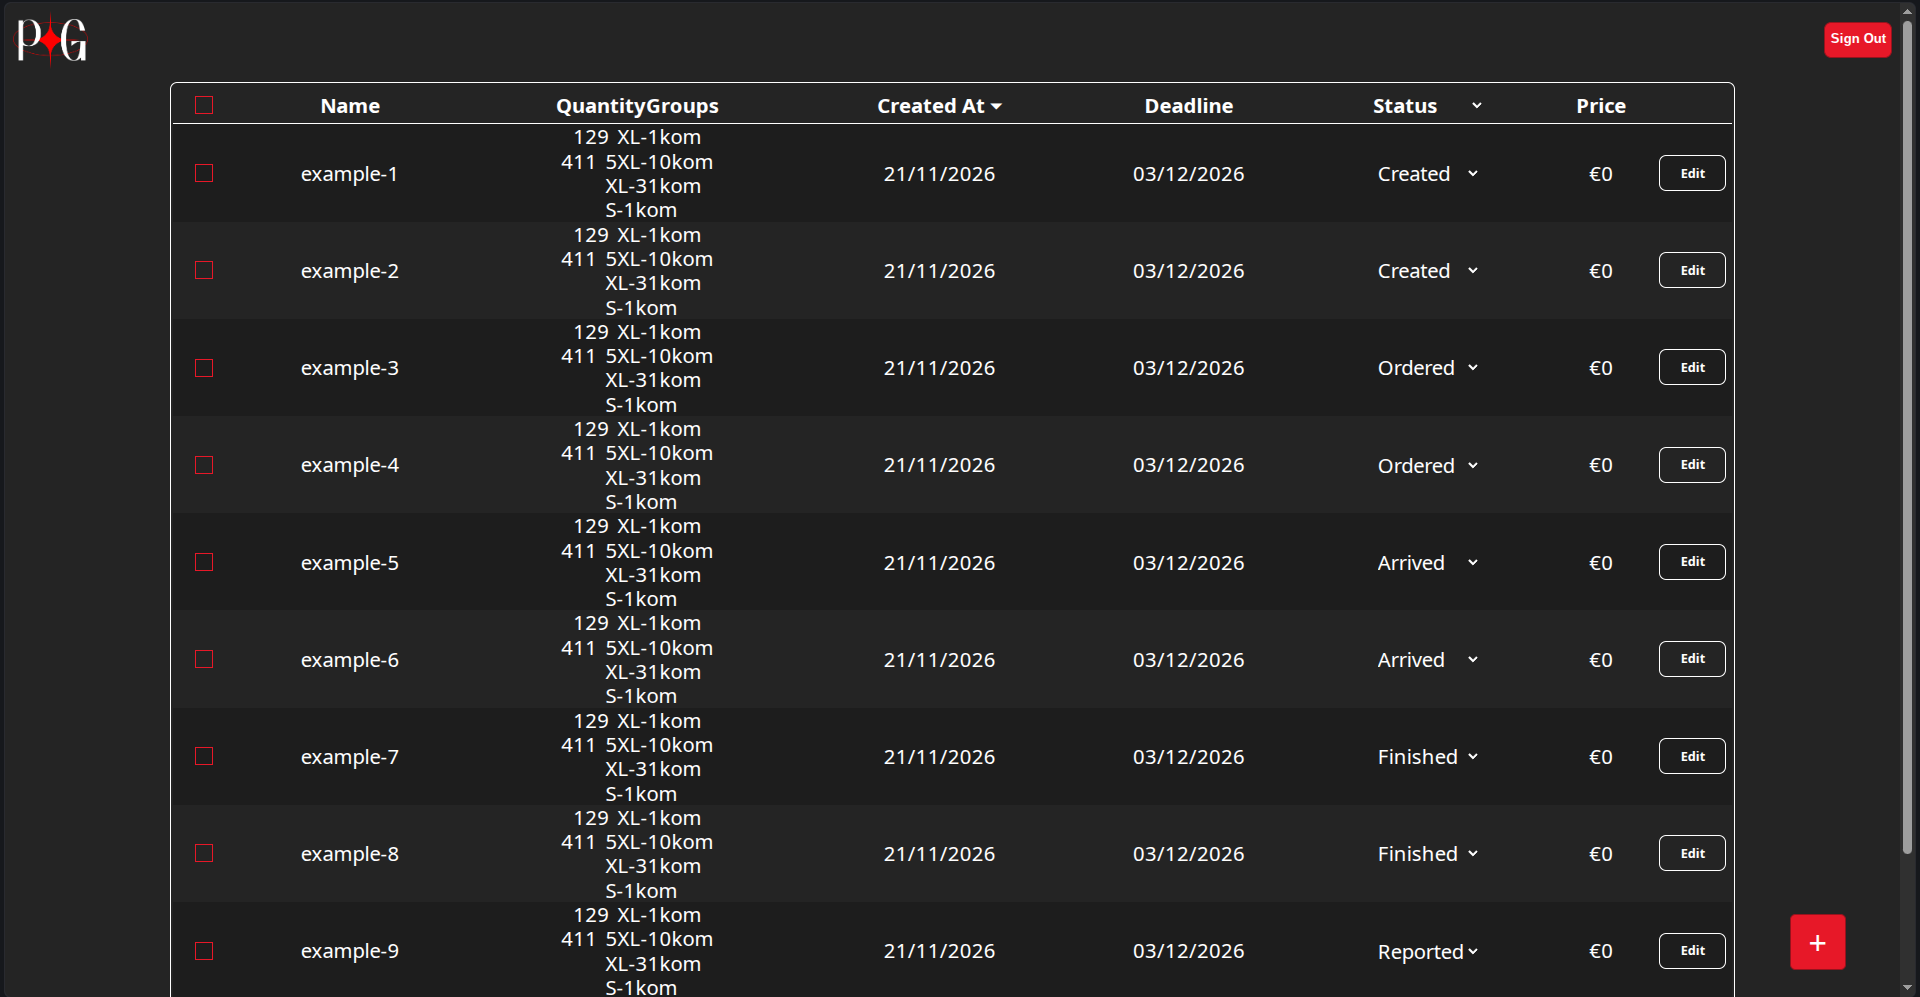
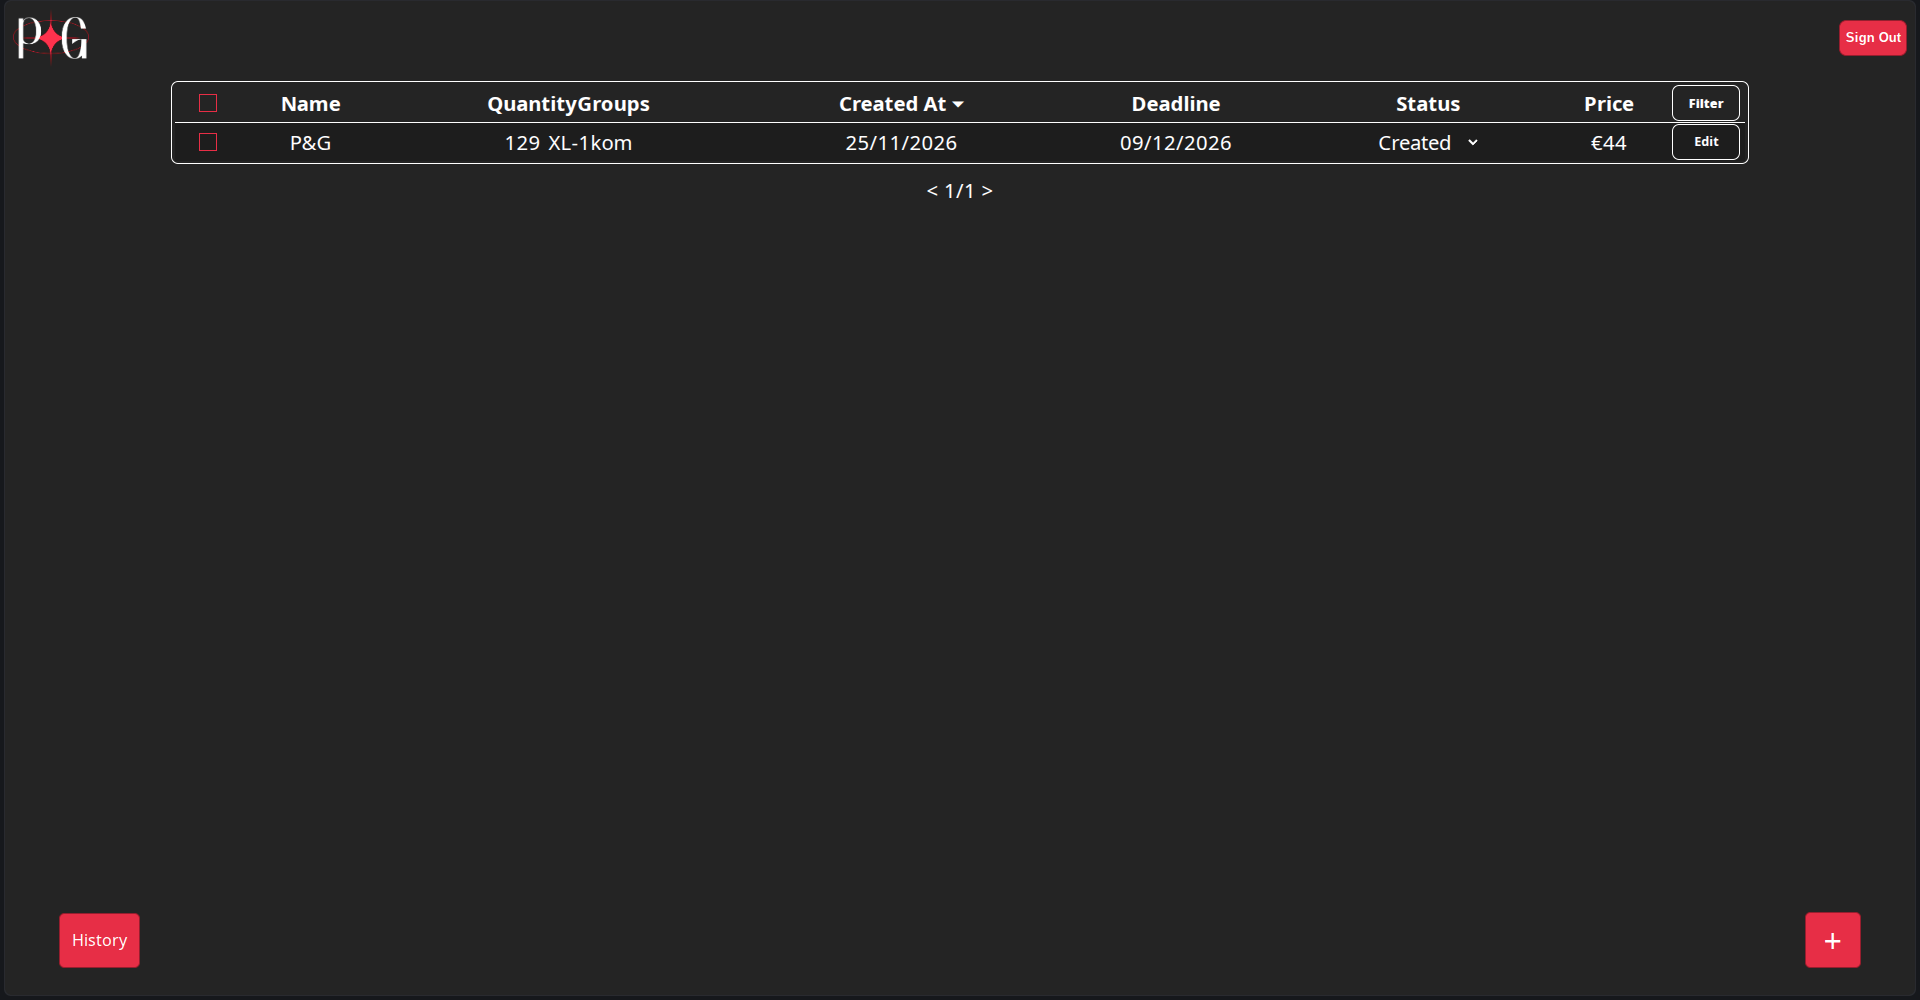
style: fixed minor styling issues

diff --git a/frontend/src/components/DataTable.tsx b/frontend/src/components/DataTable.tsx
@@ -166,14 +166,22 @@ export const DataTable = ({ onApiKeyReset }: props) => {
     setSelectedPage(1);
   }, [descending, sortBy, statusFilter]);
 
+  
   function useBreakpoint() {
     const isMobile = useMediaQuery({ query: '(max-width: 640px)' });
     const isTablet = useMediaQuery({ query: '(max-width: 1024px)' });
-
+    
     return { isMobile, isTablet };
   }
-
+  
   const { isMobile, isTablet } = useBreakpoint();
+  
+  useEffect(() => {
+    if(dataTableHidden && !isMobile && selectedOrder.id !== ''){
+      setSelectedOrder(emptyOrder);
+      setDataTableHidden(false);
+    }
+  }, [isMobile])
 
   const handleSortChange = (newlySelected: "createdAt" | "deadline") => {
     if (sortBy === newlySelected) {
@@ -190,6 +198,10 @@ export const DataTable = ({ onApiKeyReset }: props) => {
       setSelectedOrder(orderData[index]);
     }
   }
+
+  useEffect(() => {
+    console.log(isMobile, viewHistory)
+  }, [isMobile, viewHistory])
 
   const statusSelect = (index: number, order: Order) => {
     return <select className='white' name="statusSelect" id={`statusSelect-${index}`} value={order.status} onChange={
@@ -302,16 +314,20 @@ export const DataTable = ({ onApiKeyReset }: props) => {
                   </th>
                   : null
               }
-              <th>
-                <div className='flex justify-center gap-2'>
-                  <button onClick={() => { handleSortChange("deadline") }}>
-                    Deadline
-                  </button>
-                  <p className={`${sortBy === "deadline" ? "" : "hidden"} ${descending ? "rotate-180" : ""}`}>{"⏷"}
-                  </p>
+              {
+                !isMobile ?
+                <th>
+                  <div className='flex justify-center gap-2'>
+                    <button onClick={() => { handleSortChange("deadline") }}>
+                      Deadline
+                    </button>
+                    <p className={`${sortBy === "deadline" ? "" : "hidden"} ${descending ? "rotate-180" : ""}`}>{"⏷"}
+                    </p>
 
-                </div>
-              </th>
+                  </div>
+                </th>
+                : null
+              }
               {
                 !isMobile ?
                   <th>
@@ -323,10 +339,10 @@ export const DataTable = ({ onApiKeyReset }: props) => {
               {
                 !isMobile && !isTablet ? <th>Price</th> : null
               }
-              <th className='w-10' ref={filterRef}>
+              <th className={`w-10`} ref={filterRef}>
                 <button className='button-size border-white border hover:bg-white hover:text-[#1f1f1f]' onClick={() => setFilterPopUpVisible(prev => !prev)}>Filter</button>
                 <div className={filterPopUpVisible ? "" : "hidden"}>
-                  <FunnelForFilters setStatusFilter={(status:"Created" | "Ordered" | "Arrived" | "Finished" | "ReportedAsFinished" | "Delivered" | "null") => setStatusFilter(status)} filterIsHandover={filterIsHandover} toggleFilterIsHandover={() => setFilterIsHandover(prev => !prev)} showingHistory={viewHistory}/>
+                  <FunnelForFilters setStatusFilter={(status:"Created" | "Ordered" | "Arrived" | "Finished" | "ReportedAsFinished" | "Delivered" | "null") => setStatusFilter(status)} filterIsHandover={filterIsHandover} toggleFilterIsHandover={() => setFilterIsHandover(prev => !prev)} showingHistory={viewHistory} isMobile={isMobile} isTablet={isTablet}/>
                 </div>
               </th>
             </tr>
@@ -362,7 +378,9 @@ export const DataTable = ({ onApiKeyReset }: props) => {
                   {
                     !isMobile && !isTablet ? <td>{new Date(order.createdAt).toLocaleDateString("en-GB")}</td> : null
                   }
-                  <td>{new Date(order.deadline).toLocaleDateString("en-GB")}</td>
+                  {
+                    !isMobile ? <td>{new Date(order.deadline).toLocaleDateString("en-GB")}</td> : null
+                  }
 
                   {
                     !isMobile ?
@@ -379,11 +397,11 @@ export const DataTable = ({ onApiKeyReset }: props) => {
                     !isMobile && !isTablet ? <td>{`€${order.totalPrice}`}</td> : null
                   }
                   <td className='w-1/3 md:w-1/6 lg:w-1/20'>
-                    <div className={`flex gap-1 justify-center ${viewHistory ? "hidden" : ""}`}>
+                    <div className={`flex gap-1 justify-center`}>
                       {
                         isMobile ? <button className='button-size border border-white hover:bg-white hover:text-[#1f1f1f]' onClick={() => { handleOnViewMore(index) }}>View More</button> : null
                       }
-                      <button className='button-size border-white border hover:bg-white hover:text-[#1f1f1f]' onClick={() => handleOrderForm("PUT", order.id)}>
+                      <button className={`button-size border-white border hover:bg-white hover:text-[#1f1f1f] ${viewHistory ? "hidden" : null}`} onClick={() => handleOrderForm("PUT", order.id)}>
                         Edit
                       </button>
                     </div>
@@ -394,7 +412,7 @@ export const DataTable = ({ onApiKeyReset }: props) => {
           </tbody>
         </table>
       </div>
-      <div className={`${dataTableHidden || dataTableFormShown || isFetching || viewHistory ? "hidden" : null} text-center flex justify-center text-xl lg:text-5xl fixed bottom-10 right-20 rounded-lg border border-[#980b17] bg-[#e81123] hover:bg-[#980b17]`}>
+      <div className={`${dataTableHidden || dataTableFormShown || isFetching || viewHistory ? "hidden" : null} text-center flex justify-center text-xl lg:text-5xl fixed ${isMobile ? "bottom-2.5 right-5" : "bottom-10 right-20"} rounded-lg border border-[#980b17] bg-[#e81123] hover:bg-[#980b17]`}>
         <button
           type="button"
           className={`flex items-center justify-center w-5 h-5 p-10`}
@@ -405,14 +423,14 @@ export const DataTable = ({ onApiKeyReset }: props) => {
           +
         </button>
       </div>
-      <div className={`${numOfSelected === 0 || dataTableHidden || dataTableFormShown ? "hidden" : ""} text-center flex justify-center text-lg lg:text-2xl fixed bottom-10 ${viewHistory ? "right-20" : "right-45"}`}>
+      <div className={`${numOfSelected === 0 || dataTableHidden || dataTableFormShown ? "hidden" : ""} text-center flex justify-center text-lg lg:text-2xl fixed  ${isMobile ? viewHistory ? "right-5 bottom-2.5" : "right-5 bottom-25" : "bottom-10"}`}>
         <button
           onClick={() => requestDelete()}
           className={`w-30 h-20.5 items-center rounded-lg border border-[#980b17] bg-[#e81123] hover:bg-[#980b17]`}>
           Delete
         </button>
       </div>
-      <div className='text-center flex justify-center text-lg lg:text-2xl fixed bottom-10 left-20'>
+      <div className={`text-center flex justify-center text-lg lg:text-2xl fixed  ${isMobile ? "bottom-2.5 left-5" : "bottom-10 left-20"}`}>
         <button
           className={`w-30 h-20.5 items-center rounded-lg border ${viewHistory ? "border-white bg-[#1f1f1f] hover:bg-white hover:text-[#1f1f1f]" : "border-[#980b17] bg-[#e81123] hover:bg-[#980b17]"}`}
           onClick={() => setViewHistory(prev => !prev)}
@@ -452,7 +470,7 @@ export const DataTable = ({ onApiKeyReset }: props) => {
               <h3>{`Created At: ${new Date(selectedOrder.createdAt).toLocaleDateString("en-GB")}`}</h3>
               <h3>{`Deadline At: ${new Date(selectedOrder.deadline).toLocaleDateString("en-GB")}`}</h3>
               <h3>{`Price: €${selectedOrder.totalPrice}`}</h3>
-              {statusSelect(0, selectedOrder)}
+              <h3>Status: Deleted</h3>
             </div>
           </div>
           : null

diff --git a/frontend/src/components/FunnelForFilters.tsx b/frontend/src/components/FunnelForFilters.tsx
@@ -6,12 +6,14 @@ interface props {
   filterIsHandover: boolean,
   showingHistory:boolean,
   toggleFilterIsHandover: () => void,
+  isMobile: boolean,
+  isTablet: boolean
 }
 
-function FunnelForFilters({setStatusFilter, filterIsHandover, toggleFilterIsHandover, showingHistory}: props) {
+function FunnelForFilters({setStatusFilter, filterIsHandover, toggleFilterIsHandover, showingHistory, isMobile}: props) {
   return (
-    <div className={`absolute lg:w-550 sm:w-400 lg:h-27 sm:h-24 flex justify-end top-22 lg:-right-20 sm:right-4 text-xl md:text-lg lg:text-3xl`}>
-      <div className="bg-[#1f1f1f] white-border w-1/8 flex flex-col gap-1">
+    <div className={`absolute lg:w-200px lg:h-27 sm:h-24 flex justify-end top-22 lg:-right-20 sm:right-4 text-xl md:text-lg lg:text-3xl ${isMobile ? "right-4.5" : ""}`}>
+      <div className={`bg-[#1f1f1f] white-border flex flex-col gap-1 w-full px-3 py-1`}>
         <div className="flex gap-1 justify-center items-center">
           <h1>Handover?</h1>
           <input type="checkbox" className="checkbox" checked={filterIsHandover} onChange={toggleFilterIsHandover}/>
